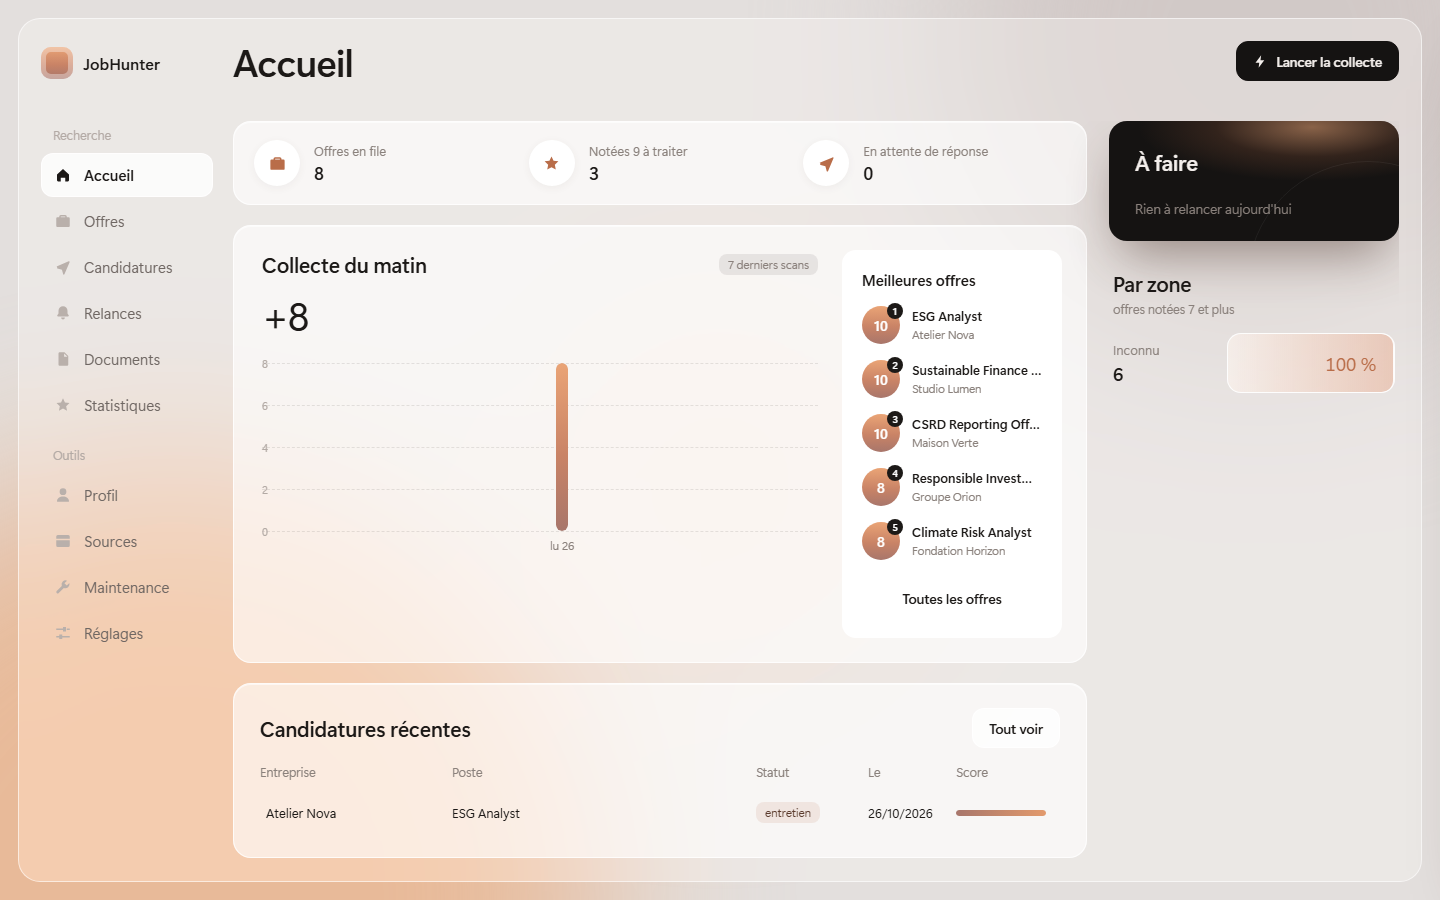
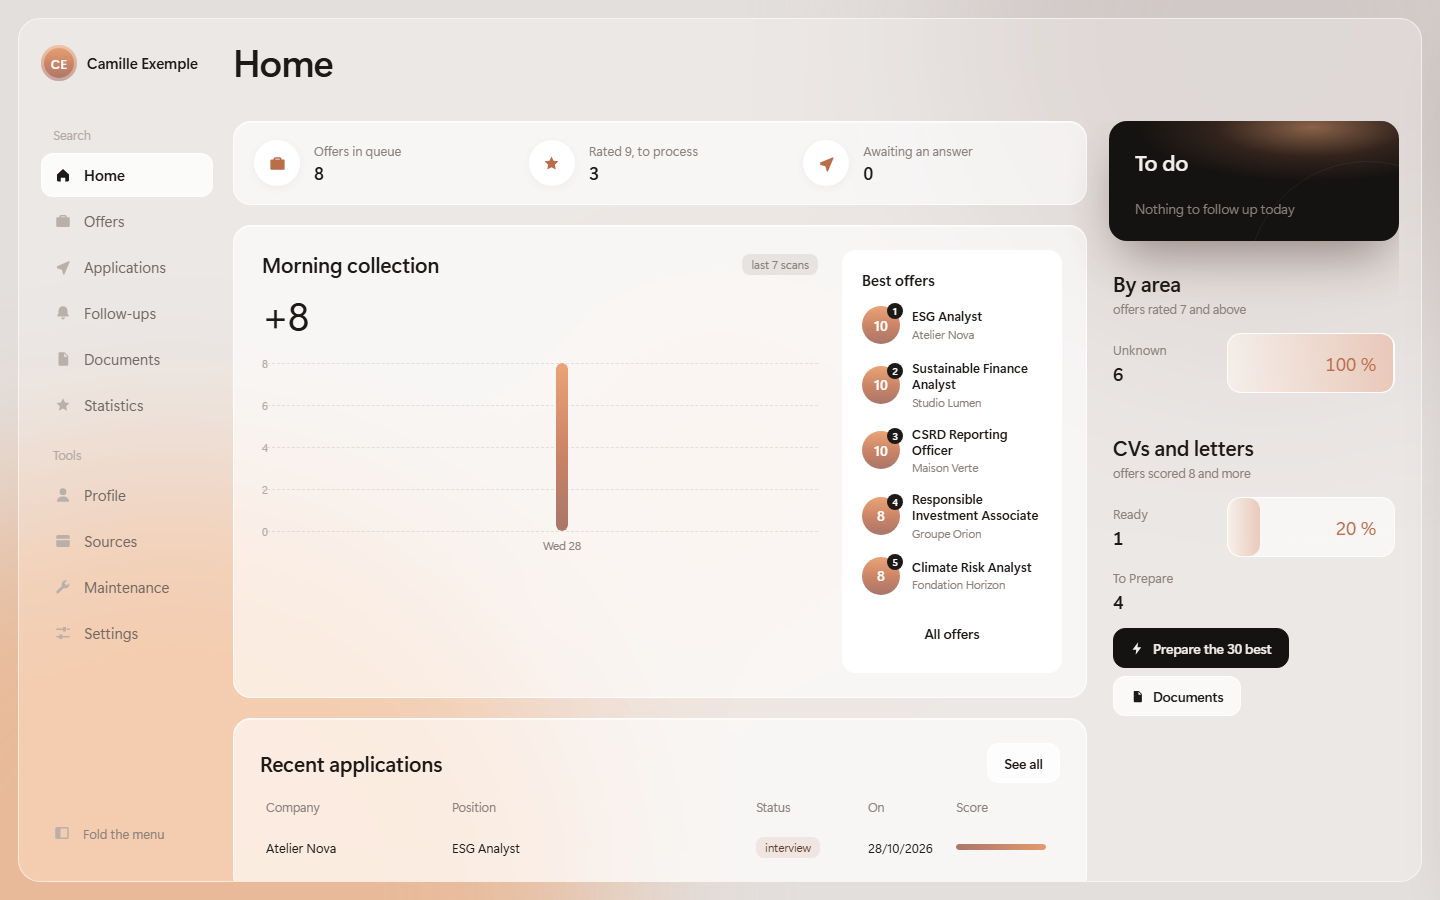
Screenshots: current web interface, French set for the Store (#131)
* Screenshots: current web interface, French set for the Store

The Store shows the web interface (the app's window since 3.27), so the
capture tool now takes four of its screens (home, offers light and dark,
applications) and can skip the old desktop window (--web-seul), which
opens a real window on the screen. Captured on the fictitious profile in
English (README) and French (docs/store/screenshots_fr, French listing).

* Screenshots: drop the old desktop window's, web interface only

offers.png and letter.png showed the classic desktop window, which the
app no longer opens by default. The READMEs now show the four web
screens (French ones in README.fr.md), and the capture tool takes only
those: no real window opens on the screen any more.

---------

diff --git a/tools/screenshots.py b/tools/screenshots.py
@@ -1,26 +1,22 @@
-"""The README screenshots, on a fictitious profile and fictitious offers.
+"""The README and Store screenshots, on a fictitious profile and fictitious offers.
 
     uv run python tools/screenshots.py [--lang en] [--out docs/screenshots]
+    # the Store's French set: --lang fr --out docs/store/screenshots_fr
 
 Builds a throwaway data folder (the example profile, "Camille Exemple", and eight
 invented companies), prepares the CV and letter of the best offer with the real
-engine (`jobhunter documents`, LibreOffice for the PDF), opens the application in the
-chosen language and captures the window:
-
-- `offers.png`: the ranked offers, the first one selected (an application with its
-  status history and its kept posting; one offer with a knock-out ⚠);
-- `letter.png`: an offer opened in full, its letter on the right;
-- `web_home.png`, `web_offers_dark.png`: the web interface (3.27), its home screen in
-  light mode and its offers in dark mode. The page runs in Playwright's Chromium, its
-  calls answered by the real `jobhunter.web.api.Api` on the same fictitious folder:
-  nothing of the screen behind is captured.
+engine (`jobhunter documents`, LibreOffice for the PDF), then captures the web
+interface — the application's window since 3.27, and what the Microsoft Store shows:
+`web_home.png`, `web_offers.png`, `web_applications.png` in light mode and
+`web_offers_dark.png` in dark mode. The page runs in Playwright's Chromium, its calls
+answered by the real `jobhunter.web.api.Api` on the same fictitious folder: no window
+opens, nothing of the screen behind is captured.
 
 Nothing of the user's own data is read: the folder is created in a temporary
-directory and `JOBHUNTER_RACINE` points to it. Windows only (screen capture by PIL).
+directory and `JOBHUNTER_RACINE` points to it.
 """
 
 import argparse
-import ctypes
 import json
 import os
 import shutil
@@ -182,58 +178,24 @@ def jobhunter(racine: Path, *args: str) -> None:
     )
 
 
-def capturer(racine: Path, langue: str, sortie: Path) -> None:
-    """Opens the app on `racine` in `langue` and saves the two screenshots."""
-    ctypes.windll.shcore.SetProcessDpiAwareness(2)  # sharp, unscaled capture
-    os.environ.update(
-        JOBHUNTER_RACINE=str(racine), JOBHUNTER_LANGUE=langue, JOBHUNTER_SANS_FOND="1"
-    )
-    os.environ.pop("JOBHUNTER_PRINCIPALE", None)
-    os.environ.pop("JOBHUNTER_ACTION", None)
-    import customtkinter as ctk
-    from PIL import ImageGrab
-
-    import jobhunter.app as ui
-
-    root = ctk.CTk()
-    app = ui.App(root)
-    root.state("normal")
-    root.geometry("1440x900+0+0")
-    root.attributes("-topmost", True)
-
-    def attendre(n: int = 30) -> None:
-        for _ in range(n):
-            root.update()
-            time.sleep(0.02)
-
-    def photo(nom: str) -> None:
-        attendre()
-        x, y = root.winfo_rootx(), root.winfo_rooty()
-        w, h = root.winfo_width(), root.winfo_height()
-        ImageGrab.grab(bbox=(x, y, x + w, y + h), all_screens=True).save(sortie / nom)
-        print("  ", sortie / nom)
-
-    attendre()
-    premier = app.tree.get_children()[0]
-    app.tree.selection_set(premier)
-    app.tree.focus(premier)
-    app._load_edit()
-    photo("offers.png")
-    app._detail_full(app.rowmap[premier])
-    attendre(80)  # the PDF preview renders in the background
-    photo("letter.png")
-    root.destroy()
-
-
 # Stands in for pywebview: window.pywebview.api.<name>(...) goes to the Python Api.
 _PONT = """
 window.pywebview = { api: new Proxy({}, { get: (_, nom) => (...args) => window.__jh(nom, args) }) };
 """
 
 
-def capturer_web(racine: Path, sortie: Path) -> None:
-    """The web interface's two screenshots, rendered headless (see the module's doc)."""
-    os.environ.update(JOBHUNTER_RACINE=str(racine))
+# (file, light or dark mode, screen) of the web interface's screenshots.
+ECRANS_WEB = (
+    ("web_home.png", "clair", "accueil"),
+    ("web_offers_dark.png", "sombre", "offres"),
+    ("web_offers.png", "clair", "offres"),
+    ("web_applications.png", "clair", "candidatures"),
+)
+
+
+def capturer_web(racine: Path, sortie: Path, langue: str = "en") -> None:
+    """The web interface's screenshots, rendered headless (see the module's doc)."""
+    os.environ.update(JOBHUNTER_RACINE=str(racine), JOBHUNTER_LANGUE=langue)
     os.environ.pop("JOBHUNTER_PRINCIPALE", None)
     from playwright.sync_api import sync_playwright
 
@@ -266,8 +228,8 @@ def capturer_web(racine: Path, sortie: Path) -> None:
             page.screenshot(path=str(sortie / nom))
             print("  ", sortie / nom)
 
-        photo("web_home.png", "clair", "accueil")
-        photo("web_offers_dark.png", "sombre", "offres")
+        for nom, mode, ecran in ECRANS_WEB:
+            photo(nom, mode, ecran)
         nav.close()
 
 
@@ -287,8 +249,7 @@ def main() -> int:
         jobhunter(racine, "documents", "--top", "1")
         jobhunter(racine, "reposts")  # the Signal column: knock-outs
         jobhunter(racine, "postings")  # the posting kept for the application
-        capturer_web(racine, sortie)
-        capturer(racine, args.lang, sortie)
+        capturer_web(racine, sortie, args.lang)
     finally:
         if args.garder:
             print("dossier fictif :", racine)

diff --git a/tests/test_personal_data.py b/tests/test_personal_data.py
@@ -56,7 +56,7 @@ def test_refuse(chemin):
         "profile/example_Facts.json",
         "data/sources_config.json",
         "My_CV/README.txt",
-        "docs/screenshots/offers.png",
+        "docs/screenshots/web_home.png",
         "src/jobhunter/storage/applications.py",
         "tests/reponses/lever.json",
     ],

diff --git a/README.fr.md b/README.fr.md
@@ -25,13 +25,13 @@ jamais de candidature.
 
 </div>
 
-| Les offres, triées pour ton profil | La lettre préparée pour une offre |
+| L'accueil : la collecte du matin, les meilleures offres, quoi faire | Les offres, triées pour ton profil |
 |---|---|
-| ![Liste des offres](docs/screenshots/offers.png) | ![Une offre en entier et sa lettre](docs/screenshots/letter.png) |
-| **La nouvelle interface : l'accueil** | **…et les offres, en mode sombre** |
-| ![Accueil de la nouvelle interface](docs/screenshots/web_home.png) | ![Offres de la nouvelle interface en mode sombre](docs/screenshots/web_offers_dark.png) |
+| ![Accueil](docs/store/screenshots_fr/web_home.png) | ![Liste des offres](docs/store/screenshots_fr/web_offers.png) |
+| **Les candidatures, de « à postuler » à l'entretien** | **…et les offres, en mode sombre** |
+| ![Candidatures](docs/store/screenshots_fr/web_applications.png) | ![Offres en mode sombre](docs/store/screenshots_fr/web_offers_dark.png) |
 
-<sub>Captures de l'application classique en anglais et de la [nouvelle interface](#la-nouvelle-interface-aperçu-depuis-le-code-source) (en français pour l'instant), avec un profil et des entreprises **fictifs** (Camille Exemple, junior en finance durable — `profile/example_finance_esg.json`), refaites par `python tools/screenshots.py`. L'application parle **français**, anglais, allemand et espagnol : Paramètres → Langue de l'interface.</sub>
+<sub>Captures en français, avec un profil et des entreprises **fictifs** (Camille Exemple, junior en finance durable — `profile/example_finance_esg.json`), refaites par `python tools/screenshots.py`. L'application parle **français**, anglais, allemand et espagnol : Paramètres → Langue de l'interface.</sub>
 
 - [Pourquoi](#pourquoi-jobhunter) · [Comment ça marche](#comment-ça-marche) · [Sources](#sources)
 - [Installer (Windows)](#installer-windows) · [Depuis le code source](#depuis-le-code-source-windows) · [macOS / Linux](#macos--linux)

diff --git a/README.md b/README.md
@@ -24,13 +24,13 @@ short message for each one. It runs on your computer. It never sends an applicat
 
 </div>
 
-| Offers, ranked for your profile | An offer in full: why it fits, where it was found, its letter |
+| Home: the morning's collection, the best offers, what to do | Offers, ranked for your profile |
 |---|---|
-| ![Offer list](docs/screenshots/offers.png) | ![Generated letter](docs/screenshots/letter.png) |
-| **The new interface: home** | **…and the offers, in dark mode** |
-| ![Home screen of the new interface](docs/screenshots/web_home.png) | ![Offers of the new interface in dark mode](docs/screenshots/web_offers_dark.png) |
+| ![Home screen](docs/screenshots/web_home.png) | ![Offer list](docs/screenshots/web_offers.png) |
+| **Applications, from « to apply » to the interview** | **…and the offers, in dark mode** |
+| ![Applications](docs/screenshots/web_applications.png) | ![Offers in dark mode](docs/screenshots/web_offers_dark.png) |
 
-<sub>Screenshots of the classic app in English and of the [new interface](#the-new-interface-preview-from-source) (French only for now), with a **fictitious** profile and invented companies (Camille Exemple, junior in sustainable finance — `profile/example_finance_esg.json`). Rebuilt by `python tools/screenshots.py`. The app also speaks **French, German and Spanish**: Settings → Interface language.</sub>
+<sub>Screenshots in English, with a **fictitious** profile and invented companies (Camille Exemple, junior in sustainable finance — `profile/example_finance_esg.json`). Rebuilt by `python tools/screenshots.py`. The app also speaks **French, German and Spanish**: Settings → Interface language.</sub>
 
 - [Why](#why-jobhunter) · [How it works](#how-it-works) · [Sources](#sources)
 - [Install (Windows)](#install-windows) · [From source](#from-source) · [macOS / Linux](#macos--linux)

diff --git a/docs/store/listing.md b/docs/store/listing.md
@@ -64,8 +64,9 @@ Data kept on your computer
 - Price: free. Markets: all.
 - Age rating questionnaire: no user-generated content shared, no purchases, no
   location sharing → 3+.
-- Screenshots: `docs/screenshots/web_home.png`, `web_offers_dark.png`, `offers.png`,
-  `letter.png` (at least 1366×768 recommended).
+- Screenshots (1440×900, fictitious profile, `tools/screenshots.py`):
+  French listing → `docs/store/screenshots_fr/`, English listing → `docs/screenshots/`
+  (`web_home.png`, `web_offers.png`, `web_offers_dark.png`, `web_applications.png`).
 - Capability `runFullTrust` justification: « Desktop application packaged from a
   Win32 program; it runs its own browser engine to read job sites and writes
   documents in the user's folder. »
